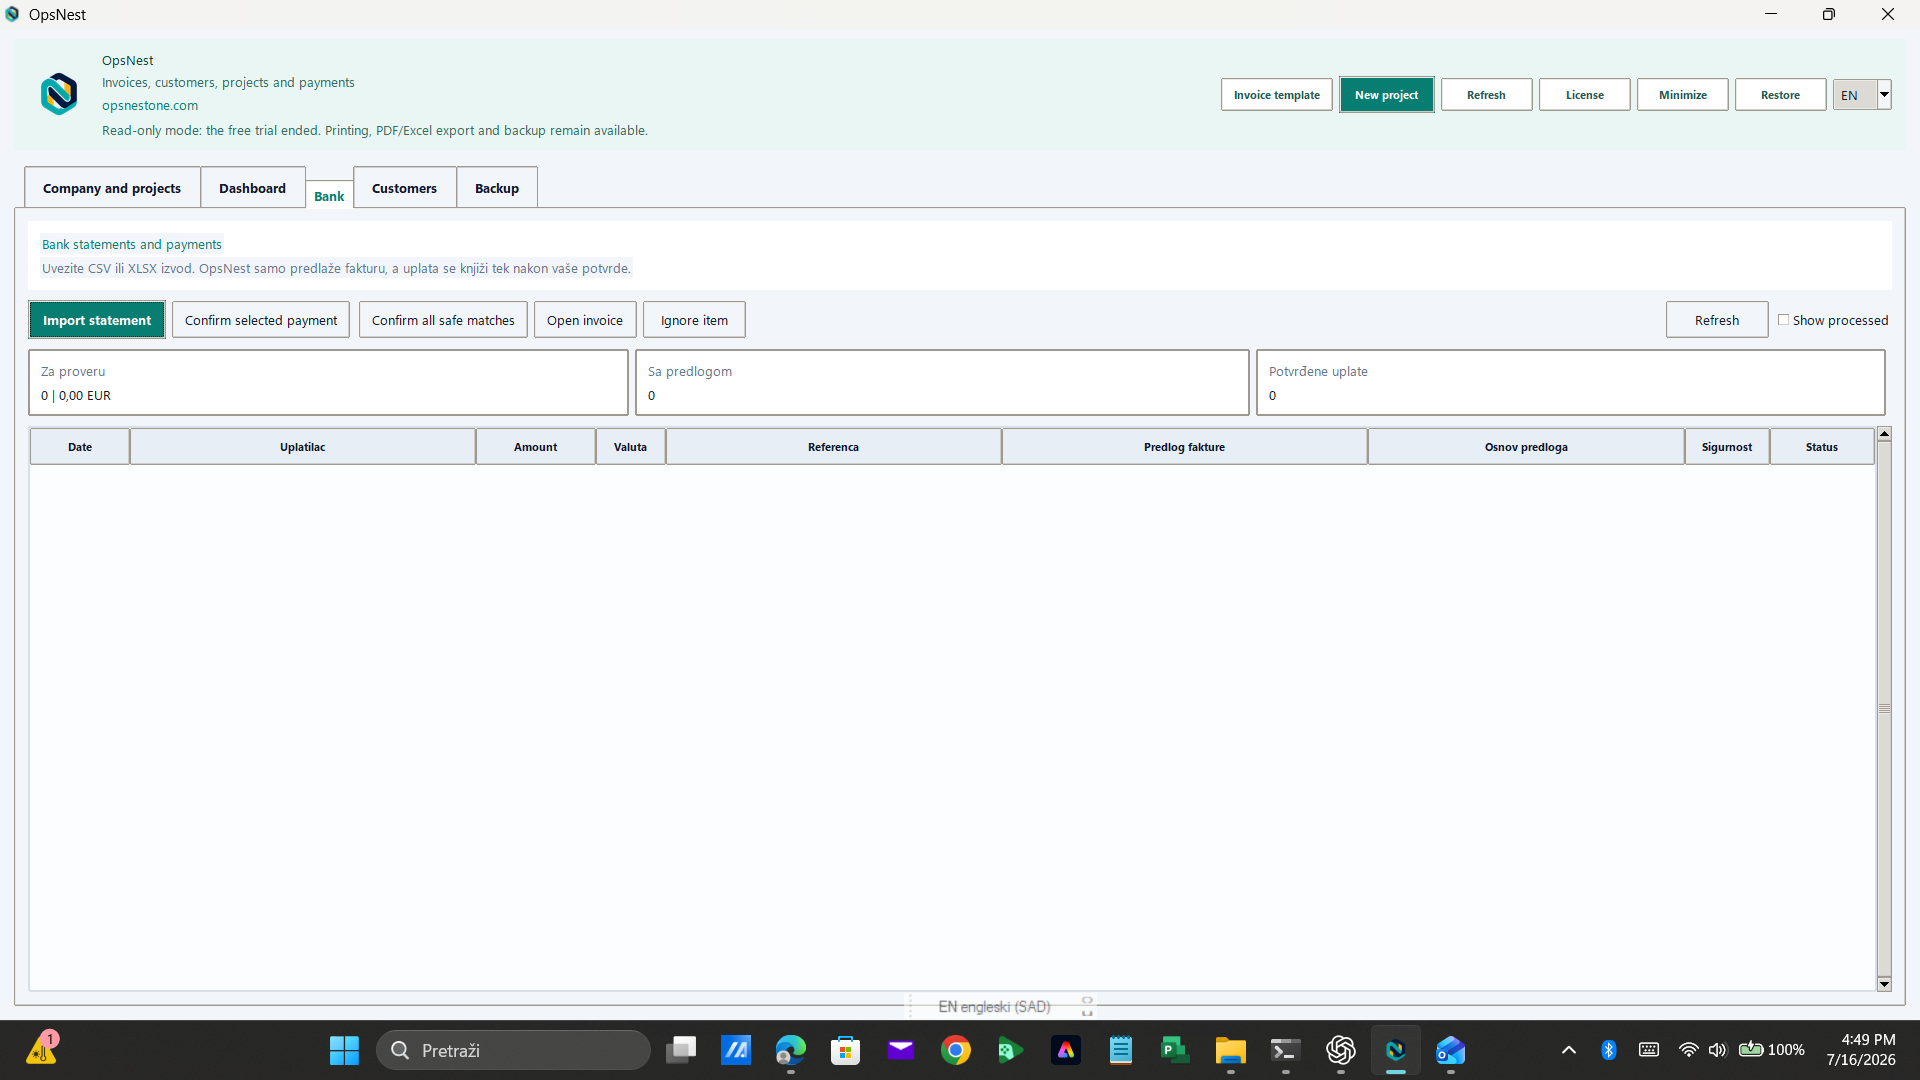
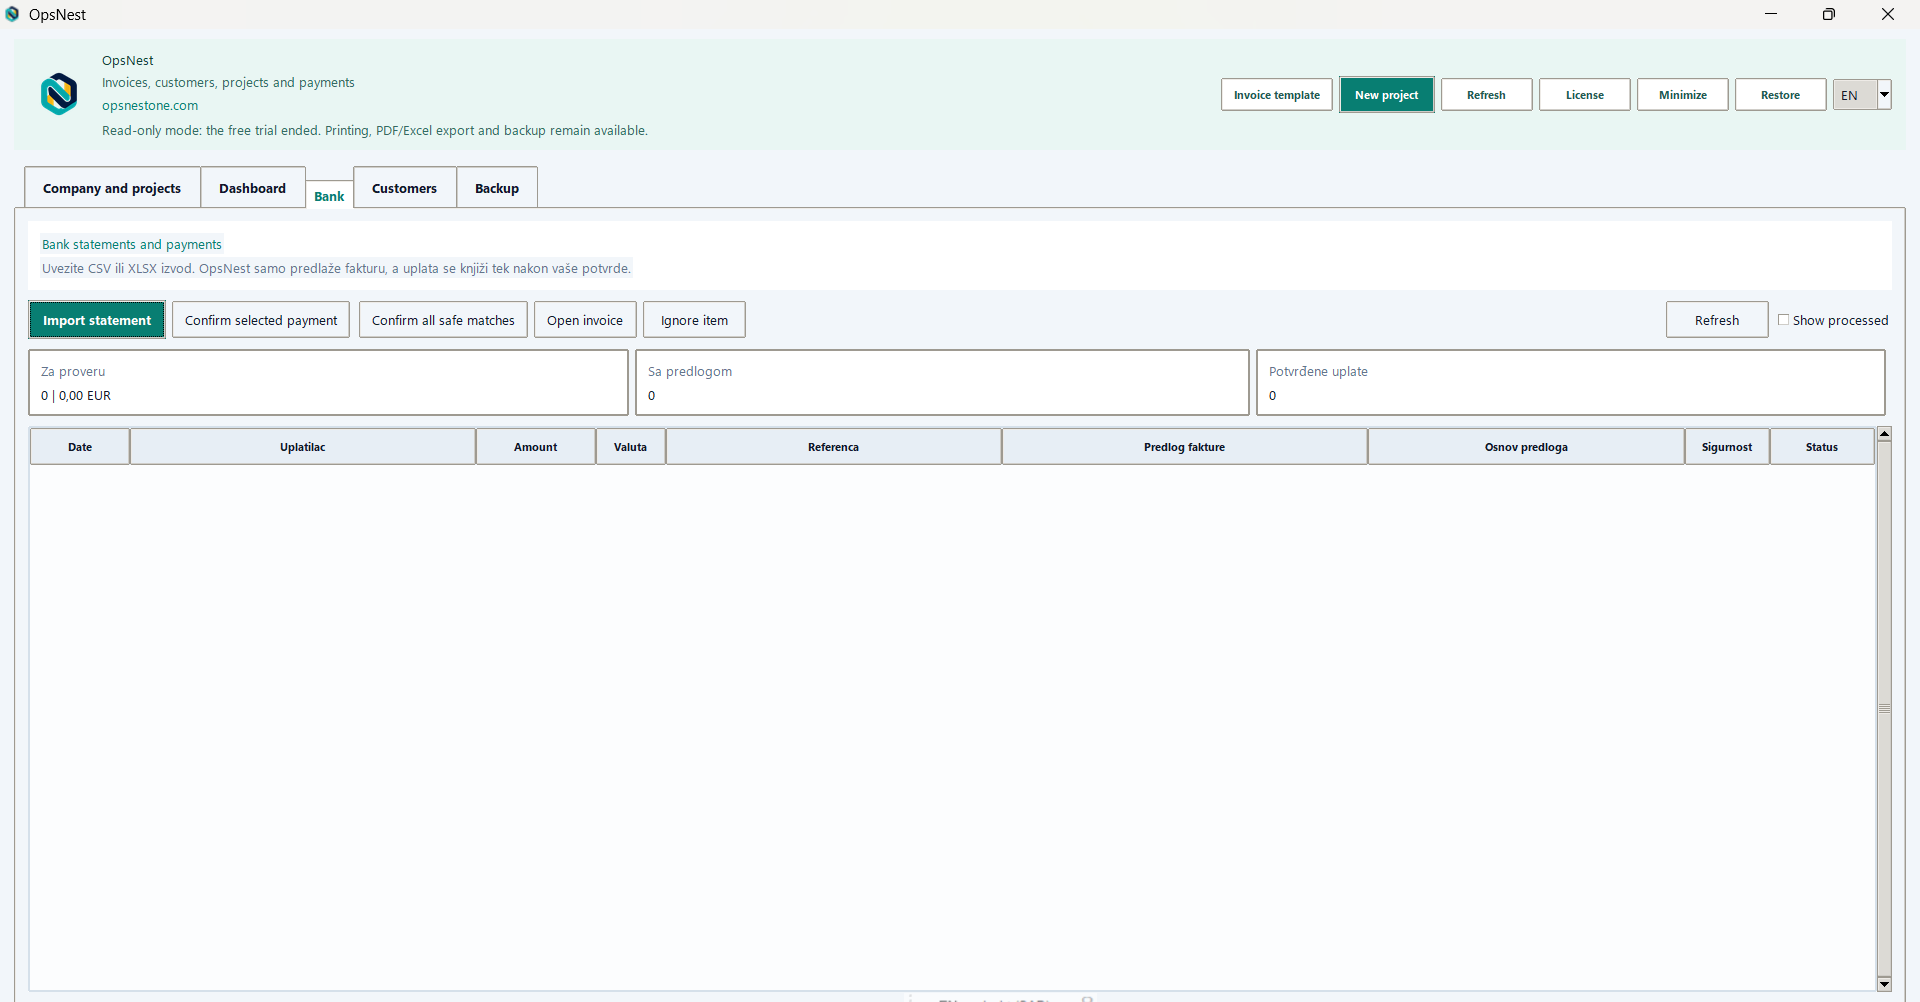
Polish public product screenshots

diff --git a/public_site/index.html b/public_site/index.html
@@ -6,7 +6,7 @@
   <meta name="description" content="OpsNest is a Windows application for project invoicing, costs, payments and clear project profit in EUR.">
   <title>OpsNest | Project accounting made visible</title>
   <link rel="icon" href="/assets/opsnest.ico">
-  <link rel="stylesheet" href="/assets/opsnest.css?v=20260717-screens">
+  <link rel="stylesheet" href="/assets/opsnest.css?v=20260717-clean-screens">
 </head>
 <body>
   <div class="site-shell">
@@ -38,7 +38,7 @@
 
       <section class="section soft" id="product"><div class="container"><div class="section-heading"><div><div class="eyebrow">One place to work</div><h2>The clarity of a project dashboard with the discipline of accounting.</h2></div><p>Open a project and see its full story: money invoiced, money collected, VAT, direct costs and the result.</p></div><div class="feature-grid"><article class="feature-card"><div class="feature-icon">01</div><h3>Invoice with confidence</h3><p>Use your invoice template, automatic project prefixes and consecutive document numbers. Save PDF immediately and send it by e-mail from the app.</p></article><article class="feature-card"><div class="feature-icon">02</div><h3>Know every cost</h3><p>Capture incoming bills, subcontractor costs, material, wages and other expenses. Import a PDF, review the detected values and save it to the right project.</p></article><article class="feature-card"><div class="feature-icon">03</div><h3>See the real result</h3><p>Every project dashboard combines revenue, payment status, VAT, costs, profit and supporting documents without forcing you into complicated accounting screens.</p></article></div></div></section>
 
-      <section class="section product-screens" id="screens"><div class="container"><div class="section-heading"><div><div class="eyebrow">Inside OpsNest</div><h2>Clear screens for the work that matters every day.</h2></div><p>See invoices, the financial result of every project and bank-payment matching in one practical Windows workspace.</p></div><div class="showcase-grid"><figure class="showcase-card showcase-primary"><a href="/assets/screenshots/project-dashboard.png" target="_blank" rel="noopener" aria-label="Open the project dashboard screenshot in full size"><img src="/assets/screenshots/project-dashboard.png" alt="OpsNest project dashboard with invoices, VAT, costs and profit" width="1920" height="1080" loading="lazy" decoding="async"></a><figcaption><span>Project dashboard</span><strong>Revenue, VAT, costs and profit in one view</strong></figcaption></figure><figure class="showcase-card showcase-invoices"><a href="/assets/screenshots/invoices.png" target="_blank" rel="noopener" aria-label="Open the invoices screenshot in full size"><img src="/assets/screenshots/invoices.png" alt="OpsNest invoice list and payment overview" width="1920" height="1080" loading="lazy" decoding="async"></a><figcaption><span>Invoice workspace</span><strong>Follow every issued invoice and its payment status</strong></figcaption></figure><figure class="showcase-card showcase-bank"><a href="/assets/screenshots/bank-matching.png" target="_blank" rel="noopener" aria-label="Open the bank matching screenshot in full size"><img src="/assets/screenshots/bank-matching.png" alt="OpsNest bank statement and payment matching workspace" width="1920" height="1080" loading="lazy" decoding="async"></a><figcaption><span>Bank matching</span><strong>Review imported payments before confirming them</strong></figcaption></figure></div><p class="screen-note">The screens use representative demo data. Click any image to inspect it in full size.</p></div></section>
+      <section class="section product-screens" id="screens"><div class="container"><div class="section-heading"><div><div class="eyebrow">Inside OpsNest</div><h2>Clear screens for the work that matters every day.</h2></div><p>See projects, financial results and bank-payment matching in one practical Windows workspace.</p></div><div class="showcase-grid"><figure class="showcase-card showcase-primary"><a href="/assets/screenshots/company-projects.png?v=20260717" target="_blank" rel="noopener" aria-label="Open the company and projects screenshot in full size"><img src="/assets/screenshots/company-projects.png?v=20260717" alt="OpsNest company and project workspace" width="1920" height="1002" loading="lazy" decoding="async"></a><figcaption><span>Company and projects</span><strong>Build a clear project structure before the first invoice</strong></figcaption></figure><figure class="showcase-card showcase-dashboard"><a href="/assets/screenshots/project-dashboard.png?v=20260717" target="_blank" rel="noopener" aria-label="Open the project dashboard screenshot in full size"><img src="/assets/screenshots/project-dashboard.png?v=20260717" alt="OpsNest project dashboard with invoices, VAT, costs and profit" width="1920" height="1002" loading="lazy" decoding="async"></a><figcaption><span>Project dashboard</span><strong>Revenue, VAT, costs and profit in one view</strong></figcaption></figure><figure class="showcase-card showcase-bank"><a href="/assets/screenshots/bank-matching.png?v=20260717" target="_blank" rel="noopener" aria-label="Open the bank matching screenshot in full size"><img src="/assets/screenshots/bank-matching.png?v=20260717" alt="OpsNest bank statement and payment matching workspace" width="1920" height="1002" loading="lazy" decoding="async"></a><figcaption><span>Bank matching</span><strong>Review imported payments before confirming them</strong></figcaption></figure></div><p class="screen-note">The screens use representative demo data. Click any image to inspect it in full size.</p></div></section>
 
       <section class="section" id="how-it-works"><div class="container"><div class="section-heading"><div><div class="eyebrow">A simple start</div><h2>From download to first invoice in a few clear steps.</h2></div></div><div class="process-grid"><article class="process"><div class="step">1</div><h3>Install and register</h3><p>Download the Windows installer, enter your company details and select the country that sets your default VAT rate.</p></article><article class="process"><div class="step">2</div><h3>Create your project</h3><p>Add a project, choose the invoice block and add customers only where they are needed on a specific invoice.</p></article><article class="process"><div class="step">3</div><h3>Track the whole picture</h3><p>Issue invoices, import PDF bills, match payments and export a clear record for your accountant when you need it.</p></article></div><div class="inline-actions"><a class="button secondary" href="/getting-started.html">Read the complete installation guide</a></div></div></section>
 

diff --git a/public_site/assets/opsnest.css b/public_site/assets/opsnest.css
@@ -167,15 +167,15 @@ img { max-width: 100%; }
 .product-screens { overflow: hidden; background: linear-gradient(180deg, #fbfcfa 0%, #eff9f6 100%); }
 .showcase-grid { display: grid; grid-template-columns: repeat(12, minmax(0, 1fr)); gap: 22px; }
 .showcase-card { margin: 0; overflow: hidden; border: 1px solid var(--line); border-radius: 20px; background: var(--white); box-shadow: 0 18px 42px rgba(27, 80, 75, .08); }
-.showcase-card a { display: block; overflow: hidden; border-bottom: 1px solid var(--line); background: #e6f1ef; }
-.showcase-card img { display: block; width: 100%; aspect-ratio: 16 / 9; object-fit: cover; object-position: center top; transition: transform 280ms ease; }
+.showcase-card a { display: block; overflow: hidden; border-bottom: 1px solid var(--line); background: #eef7f4; }
+.showcase-card img { display: block; width: 100%; height: auto; object-fit: contain; transition: transform 280ms ease; }
 .showcase-card:hover img { transform: scale(1.018); }
 .showcase-card figcaption { display: grid; gap: 4px; padding: 17px 20px 19px; }
 .showcase-card figcaption span { color: var(--teal); font-size: .74rem; font-weight: 850; letter-spacing: .09em; text-transform: uppercase; }
 .showcase-card figcaption strong { font: 800 clamp(1.05rem, 2vw, 1.28rem)/1.1 var(--display); letter-spacing: -.035em; }
-.showcase-primary { grid-column: span 7; }
-.showcase-invoices { grid-column: span 5; align-self: end; }
-.showcase-bank { grid-column: 3 / span 8; }
+.showcase-primary { grid-column: 1 / -1; }
+.showcase-dashboard { grid-column: span 6; }
+.showcase-bank { grid-column: span 6; }
 .screen-note { margin: 21px 0 0; color: var(--ink-soft); font-size: .87rem; text-align: center; }
 
 .process-grid { display: grid; grid-template-columns: repeat(3, 1fr); gap: 20px; }
@@ -272,7 +272,7 @@ details p { margin: 12px 0 0; color: var(--ink-soft); }
   .product-frame { max-width: 610px; margin: 0 auto; }
   .feature-grid, .pricing-preview { grid-template-columns: 1fr; }
   .showcase-grid { grid-template-columns: 1fr; }
-  .showcase-primary, .showcase-invoices, .showcase-bank { grid-column: auto; }
+  .showcase-primary, .showcase-dashboard, .showcase-bank { grid-column: auto; }
   .price-card.featured { transform: none; }
   .side-card { position: static; }
 }
